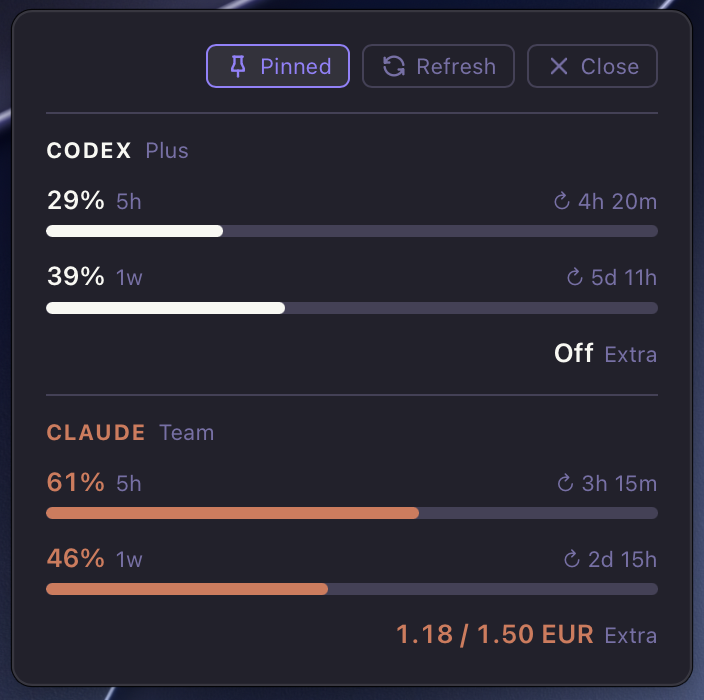
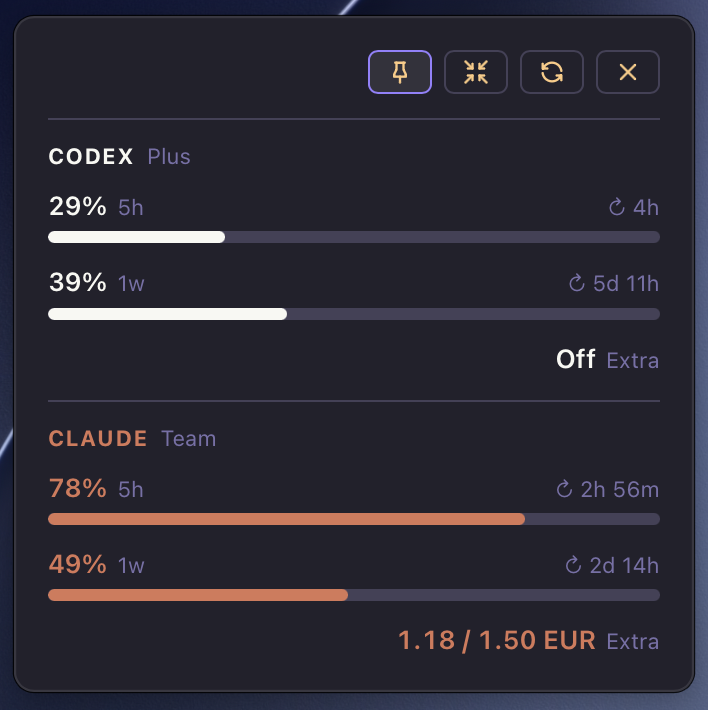
Update README screenshots and add the compact window

diff --git a/README.md b/README.md
@@ -6,10 +6,12 @@ A macOS menu bar app that shows your Codex and Claude subscription usage (5-hour
   <tr>
     <td align="center"><img src="docs/menu-bar-panel.png" alt="Menu bar panel" width="260"></td>
     <td align="center"><img src="docs/window.png" alt="Standalone window" width="260"></td>
+    <td align="center"><img src="docs/window-compact.png" alt="Compact window" width="260"></td>
   </tr>
   <tr>
     <td align="center">Menu bar panel</td>
     <td align="center">Standalone window, pinned on top</td>
+    <td align="center">Compact window</td>
   </tr>
 </table>
 
